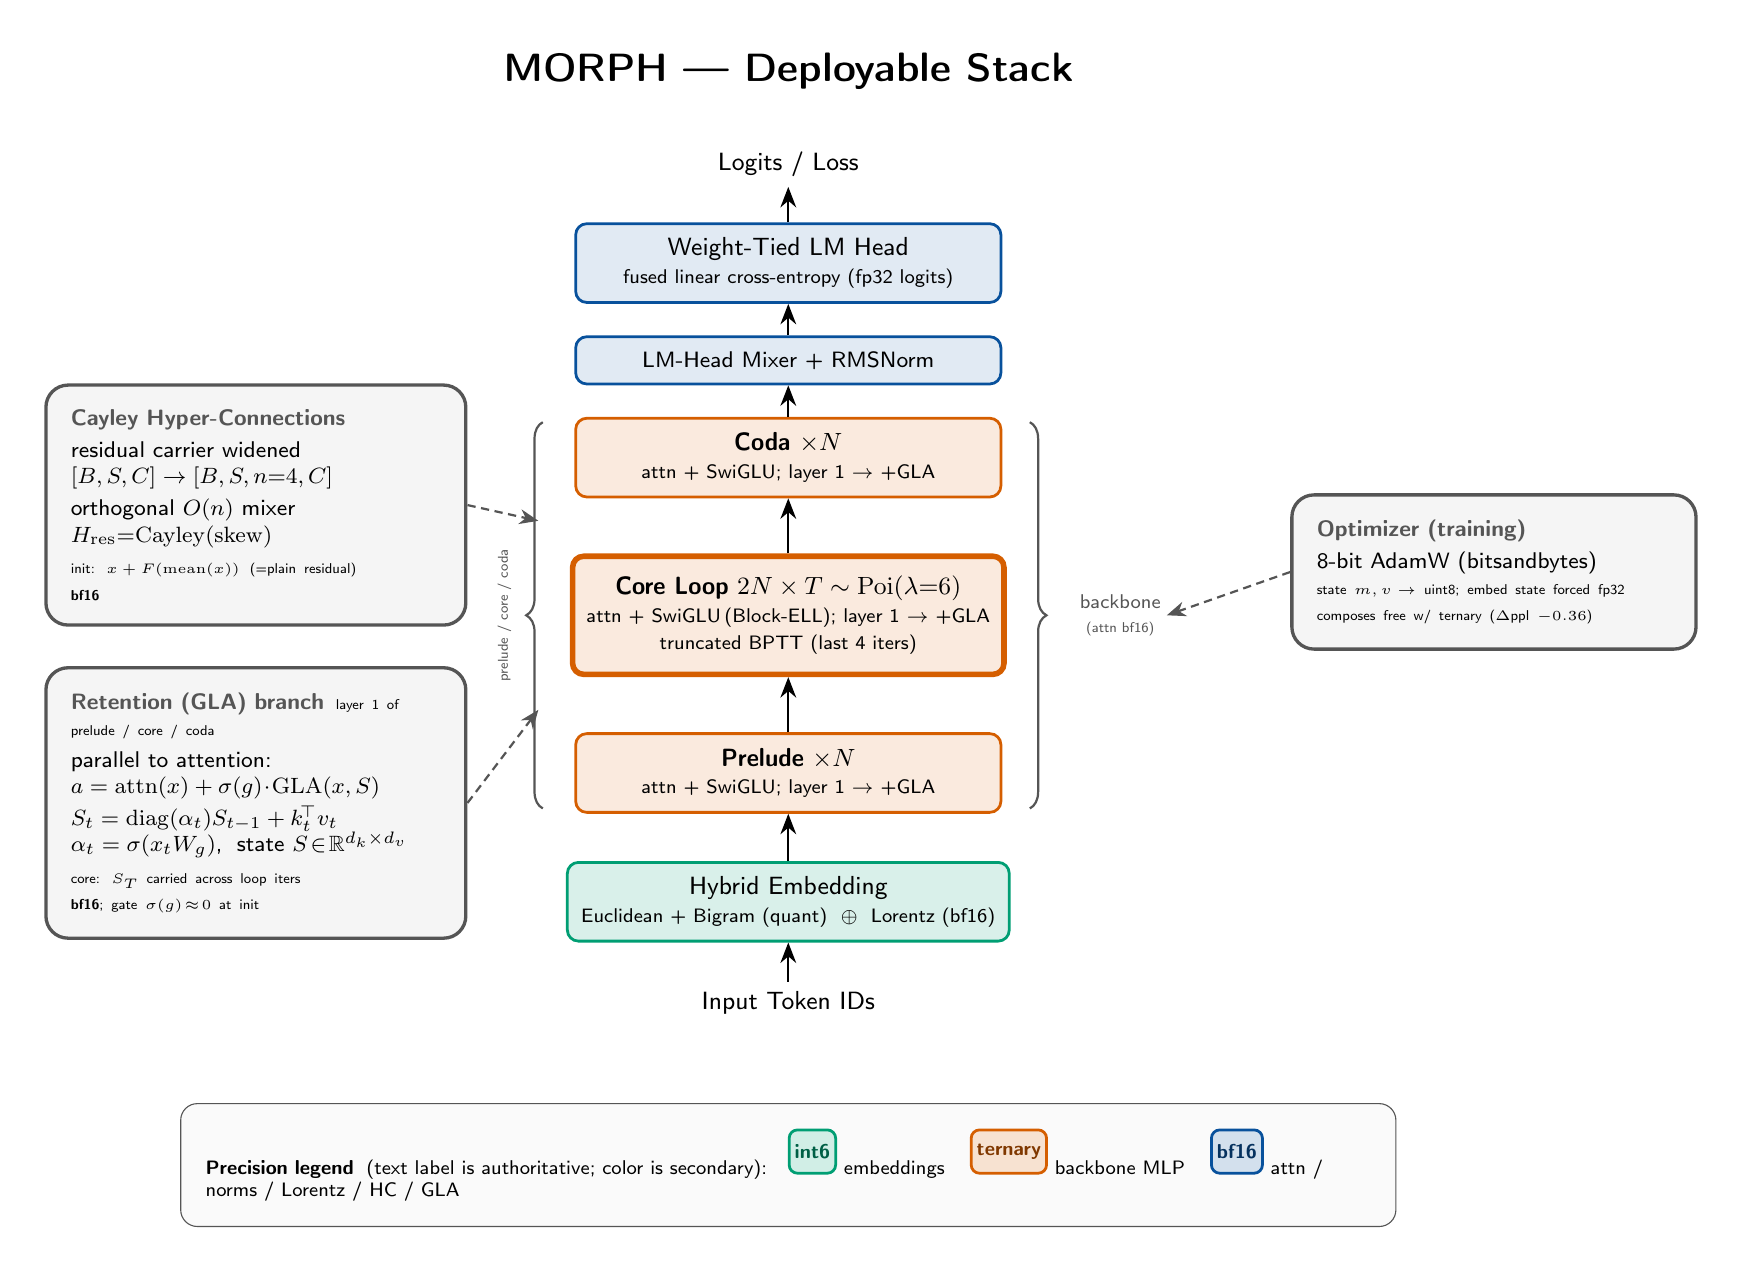
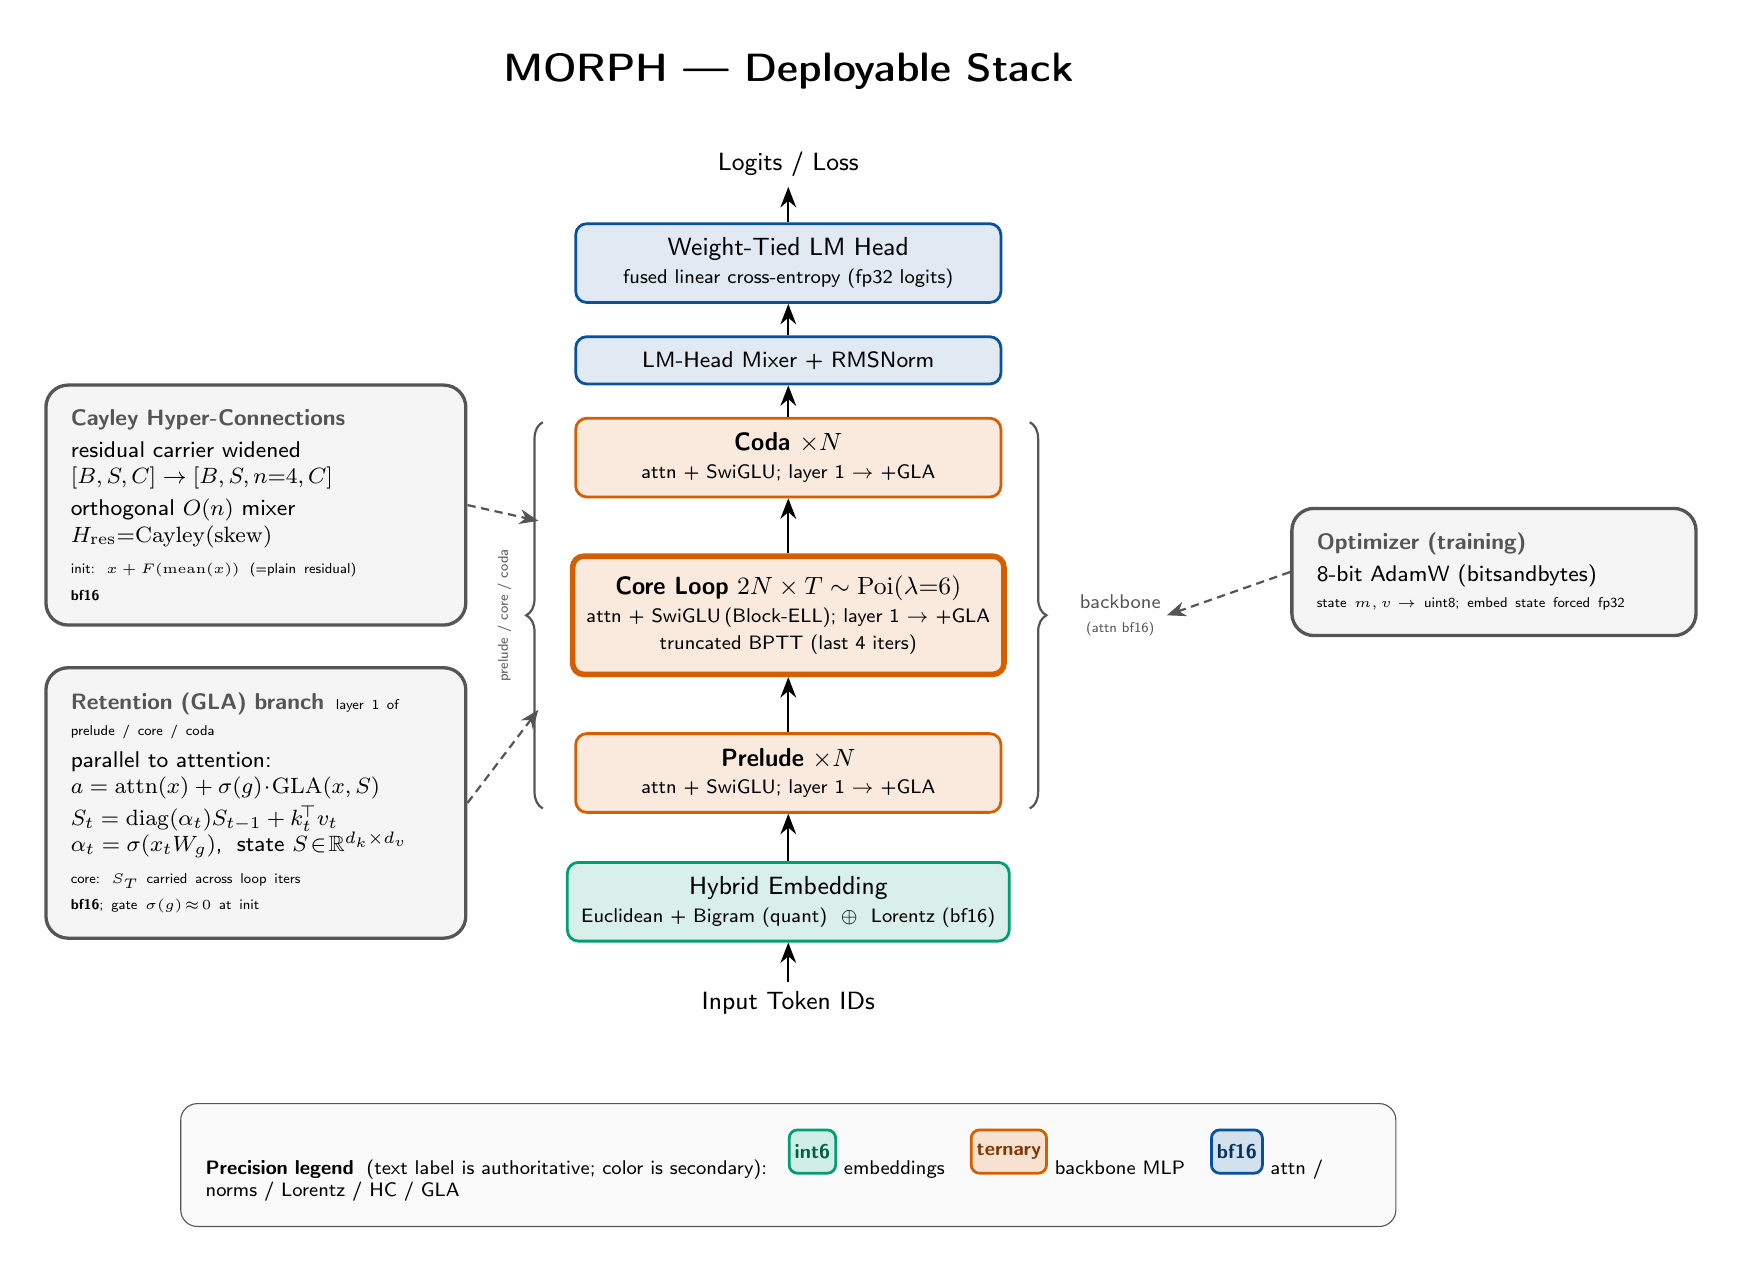
docs

Changed region(s): [[0.744, 0.3679, 0.992, 0.5212]]

diff --git a/docs/figures/morph_attention.tex b/docs/figures/morph_attention.tex
@@ -1,21 +1,20 @@
 % MORPH — Attention Detail (triple-axis compression: CCA x {CSA|HCA} x window).
-% The zoom-in of the "CCA + CSA/HCA Attention" box in morph_block.tex. Central
-% bottom-up dataflow + two detail insets (CCA prologue, CSA selection path).
+% The zoom-in of the "CCA + CSA/HCA Attention" box in morph_block.tex.
+% LAYOUT: horizontal CCA prologue "subway" strip along the bottom (the shared
+% channel-compress front-end), feeding a vertical branch/combine fork above it.
+% Detail lives in EXACTLY one place (no summary-box + inset duplication).
 %
 % Verified against code (2026-06-07, morph/model/attention.py + transformer.py:322-354):
 %   - _CCABase shared prologue: W_down_q 768->384, W_down_k 768->128 (C=2, d_head=32);
-%     depthwise+head-grouped causal conv (k=4); QK-mean couple; QK-RMSNorm; learnable
-%     temp exp() on k (per kv head); CoPE (clipped-RoPE); GQA expand 4->12; value-shift
-%     v = [W_v_curr(x_t) || W_v_prev(x_{t-1})].
-%   - Window branch (always): sliding causal, w=128, XSA (self-token excluded), fused.
+%     depthwise+head-grouped causal conv (k=4); QK-mean couple; QK-RMSNorm; key temp
+%     exp() (per kv head); CoPE (clipped-RoPE); GQA expand 4->12; value-shift.
+%   - Window branch (always): sliding causal, w=128, XSA (self excluded), fused.
 %   - Global-compressed slot resolved at __init__ by GLOBAL layer_idx parity:
-%       even -> CSA: two-stream gated pool m=4 -> Lightning Indexer (-inf before relu)
-%               -> top_k=128 select -> on-the-fly gather + invalid-mask -> flash attn.
-%       odd  -> HCA: single-stream pool m=128 -> DENSE attn over all blocks + early-query
-%               guard. (Variant is baked per layer -> a looped core layer keeps it every iter.)
-%   - Combine (always): sigmoid gate MLP 768->192->24 (2 wts/head) blends compressed+window;
-%     + residual-alpha (per head, from q_lat); + learnable per-head sinks; W_up 384->768.
-%   - CLA (cla_kv path) is real but DEFAULT-OFF -> drawn as a dashed optional overlay.
+%       even -> CSA: two-stream pool m=4 -> Lightning Indexer (-inf before relu)
+%               -> top_k=128 select -> on-the-fly gather + invalid-mask -> flash.
+%       odd  -> HCA: single-stream pool m=128 -> DENSE attn over all blocks + early-q guard.
+%   - Combine: per-head sigmoid gate (2 wts/head) blends; + residual-alpha (q_lat);
+%     + learnable per-head sinks; W_up 384->768.  CLA = dashed optional (default off).
 % Compile: pdflatex morph_attention.tex
 
 \documentclass[border=14pt]{standalone}
@@ -39,18 +38,22 @@
 \definecolor{ccaC}{HTML}{2255AA}
 
 \tikzset{
-  B/.style={draw=bdr, thick, rounded corners=4pt,
-    minimum width=4.6cm, minimum height=1.0cm,
-    font=\small\sffamily, align=center, inner sep=5pt},
-  Bs/.style={B, minimum height=0.7cm, font=\footnotesize\sffamily, minimum width=3.4cm},
-  % inset pipeline step
-  pstep/.style={draw=bdr, rounded corners=3pt, fill=fGray!55,
-    minimum width=4.3cm, minimum height=0.62cm,
-    font=\scriptsize\sffamily, align=center, inner sep=3pt},
+  % strip step (CCA prologue subway)
+  sb/.style={draw=cbBlue!70, rounded corners=3pt, fill=fBlue!60,
+    minimum width=2.45cm, minimum height=1.05cm,
+    font=\scriptsize\sffamily, align=center, inner sep=2pt},
+  % branch / combine boxes
+  Bx/.style={draw=bdr, thick, rounded corners=4pt,
+    minimum width=3.4cm, minimum height=1.0cm,
+    font=\small\sffamily, align=center, inner sep=4pt},
+  % small box inside the global slot
+  gs/.style={draw=bdr, rounded corners=3pt, minimum width=2.5cm,
+    minimum height=0.66cm, font=\scriptsize\sffamily, align=center, inner sep=2pt},
   io/.style={font=\small\sffamily},
   A/.style={-{Stealth[length=2.8mm,width=2.2mm]}, thick},
-  Ah/.style={-{Stealth[length=2.4mm,width=2mm]}, semithick, cbGray},
+  As/.style={-{Stealth[length=2.4mm,width=1.9mm]}, semithick},
   Ad/.style={-{Stealth[length=2.4mm,width=1.9mm]}, thick, densely dashed},
+  rail/.style={ccaC, line width=1.4pt},
   sub/.style={font=\scriptsize\sffamily},
   tny/.style={font=\tiny\sffamily},
   dim/.style={font=\tiny\sffamily, text=cbGray},
@@ -60,158 +63,127 @@
 \begin{tikzpicture}
 
 % =====================================================================
-% MAIN COLUMN (bottom -> top), centred on x = 0
+% BAND 1 (bottom) — CCA prologue subway strip
 % =====================================================================
-
-% ── input ──
-\node[io] (inp) at (0,0) {$x\;[B,S,768]$};
-
-% ── CCA prologue (shared, always on) ──
-\node[B, fill=fBlue, draw=cbBlue, line width=1pt, minimum width=6.4cm,
-      minimum height=1.45cm, above=0.55cm of inp] (cca) {
-  \textbf{CCA channel compression}\;{\footnotesize(C{=}2)}\\[1pt]
-  {\scriptsize $W_{\downarrow}$: 768$\to$384(q)/128(k) $\cdot$ causal conv(dw+grp) $\cdot$ QK-mean}\\[-1pt]
-  {\scriptsize QK-RMSNorm $\cdot$ temp$\,e^{\tau}\!$ $\cdot$ CoPE $\cdot$ GQA 4$\to$12 $\cdot$ value-shift}};
-\draw[A] (inp) -- (cca);
-\node[dim, anchor=west] at ($(cca.east)+(0.08,-0.45)$) {$d_\mathrm{head}{=}32$};
-
-% q,k,v distribution bus
-\coordinate (bus) at (0,2.95);
-\draw[A] (cca.north) -- (bus) node[pos=0.55, right=2pt, sub, text=ccaC]{$q,k,v\;[B,12,S,32]$};
-
-% ── two branches ──
-% LEFT: window branch
-\node[B, fill=fOrange, draw=cbOrange!85!black, line width=0.9pt,
-      minimum width=3.9cm, minimum height=2.05cm] (win) at (-2.75,4.55) {
-  \textbf{Window branch}\\[1pt]
-  {\scriptsize sliding causal, $w{=}128$}\\[-1pt]
-  {\scriptsize \textbf{XSA} — self-token excluded}\\[-1pt]
-  {\scriptsize MAC suffix ($n_\mathrm{skip}$ tokens):}\\[-2pt]
-  {\scriptsize skip CoPE, globally visible}\\[-1pt]
-  {\tiny fused window kernel}};
-
-% RIGHT: global-compressed slot (alternation container)
-\node[draw=cbGray, densely dashed, thick, rounded corners=6pt, fill=cbGray!4,
-      minimum width=4.9cm, minimum height=2.55cm, anchor=south] (slot) at (2.6,3.55) {};
-\node[tny, text=cbGray, anchor=north] at (slot.north) {global-compressed slot $\cdot$ \textbf{one active / layer}};
-\node[B, fill=fPurple, draw=cbPurple, line width=0.9pt, minimum width=4.4cm,
-      minimum height=0.95cm] (csa) at (2.6,5.18) {
-  \textbf{CSA}\,{\scriptsize(even idx)} — sparse select\\[-1pt]
-  {\tiny pool $m{=}4$ $\cdot$ indexer top-$k{=}128$ $\cdot$ gather}};
-\node[B, fill=fTeal, draw=cbTeal, line width=0.9pt, minimum width=4.4cm,
-      minimum height=0.95cm] (hca) at (2.6,4.06) {
-  \textbf{HCA}\,{\scriptsize(odd idx)} — dense compress\\[-1pt]
-  {\tiny pool $m{=}128$ $\cdot$ attend ALL blocks $\cdot$ early-q guard}};
-
-% bus -> branches
-\draw[A] (bus) -| (win.south);
-\draw[A] (bus) -| (slot.south);
-
-% ── combine (gate + sink + alpha + W_up) ──
-\node[B, fill=cbBlue!8, draw=cbBlue, line width=1pt, minimum width=7.2cm,
-      minimum height=1.45cm] (comb) at (0,7.35) {
-  \textbf{Gate blend $+$ residual $+$ sinks}\\[1pt]
-  {\scriptsize sigmoid gate MLP 768$\to$192$\to$24 (2/head): $g_c\,o_\mathrm{comp}+g_w\,o_\mathrm{win}$}\\[-1pt]
-  {\scriptsize $+\;\alpha_h\!\cdot\!$residual$(q_\mathrm{lat})$ $\;+\;$ learnable per-head sink logits}};
-\draw[A] (win.north)  -- ([xshift=-1.6cm]comb.south) node[pos=0.55, left=1pt, sub, text=cbOrange!80!black]{$o_\mathrm{win}$};
-% only one of CSA/HCA is active per layer -> a single shared o_comp exit off the slot
-\draw[A] (slot.north) -- ([xshift=1.7cm]comb.south) node[pos=0.5, right=1pt, sub, text=cbPurple]{$o_\mathrm{comp}$};
-
-% ── W_up + output ──
-\node[Bs, fill=fGray, minimum width=4.2cm, above=0.45cm of comb] (wup) {$W_{\uparrow}$: 384 $\to$ 768};
-\draw[A] (comb) -- (wup);
-\node[io, above=0.42cm of wup] (out) {attn out $[B,S,768]$ $\to$ block residual};
-\draw[A] (wup) -- (out);
-
-% ── CLA optional overlay (default off) ──
-\node[draw=cbGray, densely dashed, rounded corners=5pt, fill=cbGray!5,
-      text width=3.5cm, font=\tiny\sffamily, align=left, inner sep=5pt, text=bdr]
-      at (-2.6,6.55) (cla) {%
-  \textbf{optional · CLA} (default off)\\
-  cache $k,v,C_\mathrm{comp}$ at 1st grad iter; later loop iters recompute \emph{$q$ only}};
-\draw[Ad, cbGray] (cla.south) -- ([yshift=2pt]win.north west);
-
-% =====================================================================
-% INSET 1 (LEFT) — CCA prologue expanded
-% =====================================================================
-\def\ix{-8.4}
-\node[pstep, fill=fBlue!70] (i1a) at (\ix,1.1) {$W_{\downarrow}q$ 768$\to$384 \;$\cdot$\; $W_{\downarrow}k$ 768$\to$128};
-\node[pstep, above=0.34cm of i1a] (i1b) {causal conv: depthwise $\to$ head-grouped ($k{=}4$)};
-\node[pstep, above=0.34cm of i1b] (i1c) {QK-mean couple: $q{\mathrel{+}}{=}\tfrac12(q_\mathrm{lat}{+}k_\mathrm{lat})$};
-\node[pstep, above=0.34cm of i1c] (i1d) {QK-RMSNorm \;$\cdot$\; key temp $\times e^{\tau}$ (per kv-head)};
-\node[pstep, above=0.34cm of i1d] (i1e) {CoPE — clipped-RoPE (cosine taper $>$ ctx\_len)};
-\node[pstep, above=0.34cm of i1e] (i1f) {GQA expand $k,v$: 4 kv-head $\to$ 12 q-head};
-\node[pstep, fill=fBlue!70, above=0.34cm of i1f] (i1g) {value-shift: $v{=}[W_v x_t \,\Vert\, W_v x_{t-1}]$};
-\foreach \a/\b in {i1a/i1b,i1b/i1c,i1c/i1d,i1d/i1e,i1e/i1f,i1f/i1g}{\draw[Ah] (\a)--(\b);}
-\node[io, below=0.3cm of i1a] (i1in) {$x$};
-\draw[Ah] (i1in)--(i1a);
-\node[sub, text=ccaC, above=0.28cm of i1g] (i1out) {$\to q,k,v\;[B,12,S,32]$};
-\draw[Ah] (i1g)--(i1out);
+\def\sy{0.3}
+\node[io] (xin) at (-10.5,\sy) {$x$};
+\node[sb] (s1) at (-8.0,\sy) {$W_{\downarrow}\,q,k$\\[-1pt]768$\to$384\,/\,128};
+\node[sb] (s2) at (-5.35,\sy) {causal conv\\[-1pt]dw$\to$grp ($k{=}4$)};
+\node[sb] (s3) at (-2.70,\sy) {QK-mean\\[-1pt]$q{+}{=}\tfrac12(q{+}k)$};
+\node[sb] (s4) at (-0.05,\sy) {QK-RMSNorm\\[-1pt]key temp $e^{\tau}$};
+\node[sb] (s5) at (2.60,\sy) {CoPE\\[-1pt]clipped-RoPE};
+\node[sb] (s6) at (5.25,\sy) {GQA expand\\[-1pt]4$\to$12 heads};
+\node[sb] (s7) at (7.90,\sy) {value-shift\\[-1pt]$[x_t\Vert x_{t-1}]$};
+\node[io] (qkv) at (10.4,\sy) {$q,k,v$};
+\foreach \a/\b in {xin/s1,s1/s2,s2/s3,s3/s4,s4/s5,s5/s6,s6/s7,s7/qkv}{\draw[As] (\a)--(\b);}
 \begin{scope}[on background layer]
-  \node[draw=cbBlue!55, thick, rounded corners=7pt, fill=cbBlue!4,
-        fit=(i1in)(i1a)(i1g)(i1out), inner sep=9pt] (I1) {};
+  \node[draw=cbBlue!45, thick, rounded corners=7pt, fill=cbBlue!4,
+        fit=(s1)(s7), inner xsep=7pt, inner ysep=8pt] (STRIP) {};
 \end{scope}
 \node[font=\small\sffamily\bfseries, text=cbBlue, anchor=south west]
-  at ($(I1.north west)+(0.1,0.02)$) {CCA prologue \;{\footnotesize(shared $\_$CCABase)}};
-% link main CCA -> inset 1
-\draw[Ad, cbBlue] (cca.west) to[out=180,in=0] (I1.east);
+  at ($(STRIP.north west)+(0.05,0.03)$)
+  {CCA prologue \;{\footnotesize(shared \_CCABase $\cdot$ channel-compress $C{=}2$ $\cdot$ $d_\mathrm{head}{=}32$)}};
 
 % =====================================================================
-% INSET 2 (RIGHT) — CSA selection path expanded
+% q,k,v broadcast rail (compute once, feed both branches)
 % =====================================================================
-\def\jx{8.7}
-\node[pstep, fill=fPurple!75, minimum height=0.92cm] (i2a) at (\jx,1.25) {
-  two-stream gated pool $m{=}4$ $\to$ $C_\mathrm{comp}$ (RMSNorm)\\[-1pt]
-  {\tiny streams A/B overlap; joint softmax over $2m$; block $i$ fuses $i,i{-}1$}};
-\node[pstep, above=0.34cm of i2a] (i2b) {Lightning Indexer: $q_I\!\cdot\!K_I$, \;$-\infty$ \emph{before} relu};
-\node[pstep, above=0.34cm of i2b] (i2c) {scores $[B,S,n_\mathrm{blk}]$ — re-mask future $\to-\infty$};
-\node[pstep, fill=fPurple!75, above=0.34cm of i2c] (i2d) {top-$k{=}128$ block select \;$+$\; invalid-mask};
-\node[pstep, above=0.34cm of i2d] (i2e) {on-the-fly gather \;$\to$\; flash attn ($+$ sink)};
-\foreach \a/\b in {i2a/i2b,i2b/i2c,i2c/i2d,i2d/i2e}{\draw[Ah] (\a)--(\b);}
-\node[io, below=0.3cm of i2a] (i2in) {$x$};
-\draw[Ah] (i2in)--(i2a);
-\node[sub, text=cbPurple, above=0.28cm of i2e] (i2out) {$\to o_\mathrm{comp}$};
-\draw[Ah] (i2e)--(i2out);
-\begin{scope}[on background layer]
-  \node[draw=cbPurple!55, thick, rounded corners=7pt, fill=cbPurple!4,
-        fit=(i2in)(i2a)(i2e)(i2out), inner sep=9pt] (I2) {};
-\end{scope}
-\node[font=\small\sffamily\bfseries, text=cbPurple, anchor=south west]
-  at ($(I2.north west)+(0.1,0.02)$) {CSA selection path};
-% HCA contrast note — its own callout below the inset (HCA reuses the pooler, no selection)
-\node[draw=cbTeal!55, thick, rounded corners=5pt, fill=fTeal!55,
-      font=\tiny\sffamily, align=left, text width=4.4cm, inner sep=5pt,
-      below=0.3cm of I2.south, anchor=north] (hnote) {%
-  \textbf{HCA} reuses the same pooler ($m{=}128$) but \emph{skips} the indexer $+$ top-$k$:
-  dense softmax over \emph{all} compressed blocks ($+$ sink, early-query guard).};
-% link main CSA -> inset 2
-\draw[Ad, cbPurple] (csa.east) to[out=0,in=180] (I2.west);
+\def\busy{2.45}
+\draw[rail] (qkv.north) |- (-3.7,\busy);
+\node[sub, text=ccaC, anchor=south] at (5.6,\busy) {$q,k,v\;[B,12,S,32]$ \;(broadcast to both branches)};
 
 % =====================================================================
-% BOTTOM — four-axis legend / facts
+% BAND 2 (middle) — two attention branches
+% =====================================================================
+% LEFT: window branch
+\node[Bx, fill=fOrange, draw=cbOrange!85!black, line width=1pt,
+      minimum width=3.5cm, minimum height=2.0cm, anchor=south] (win) at (-3.2,3.15) {
+  \textbf{Window branch}\\[2pt]
+  {\scriptsize sliding causal, $w{=}128$}\\[1pt]
+  {\scriptsize \textbf{XSA}: self-token excluded}\\[1pt]
+  {\scriptsize MAC suffix ($n_\mathrm{skip}$): skip}\\[-2pt]
+  {\scriptsize CoPE, globally visible}};
+\node[tny, text=cbOrange!75!black, anchor=north] at (win.south) {fused window kernel};
+
+% RIGHT: global-compressed slot (the alternation container)
+\node[draw=cbGray, densely dashed, very thick, rounded corners=7pt, fill=cbGray!4,
+      minimum width=6.7cm, minimum height=4.05cm, anchor=south] (slot) at (3.7,3.0) {};
+\node[tny, text=cbGray, anchor=north east] at ($(slot.north east)+(-0.14,-0.1)$)
+  {global slot \;$\cdot$\; \textbf{1 active / layer}};
+% shared pooler at the bottom
+\node[gs, fill=fGray!55, minimum width=6.0cm] (pool) at (3.7,3.5) {
+  pool $\to C_\mathrm{comp}$ (RMSNorm)\;$\cdot$\; CSA $m{=}4$ (2-stream) / HCA $m{=}128$};
+% CSA column (left, EVEN layers) — purple
+\node[gs, fill=fPurple, draw=cbPurple, minimum width=2.9cm] (csa1) at (2.05,4.40) {indexer: $-\infty$ \emph{before} relu};
+\node[gs, fill=fPurple, draw=cbPurple, minimum width=2.9cm] (csa2) at (2.05,5.10) {top-$k{=}128$ $+$ invalid-mask};
+\node[gs, fill=fPurple, draw=cbPurple, minimum width=2.9cm] (csa3) at (2.05,5.80) {gather $\to$ flash ($+$sink)};
+\node[sub, text=cbPurple!75!black, anchor=south] at (csa3.north) {\textbf{CSA}\,$\cdot$\,even};
+% HCA column (right, ODD layers) — green
+\node[gs, fill=fTeal, draw=cbTeal, minimum width=2.9cm, minimum height=1.05cm] (hca) at (5.4,5.10)
+  {dense softmax over\\ \emph{all} blocks $+$ early-q guard};
+\node[sub, text=cbTeal!55!black, anchor=south] at (hca.north) {\textbf{HCA}\,$\cdot$\,odd};
+% pool feeds both columns; csa flows up; both merge to ONE o_comp exit (only one runs/layer)
+\draw[As, cbPurple] (pool.north) to[out=128,in=-90] (csa1.south);
+\draw[As, cbTeal]   (pool.north) to[out=52,in=-90]  (hca.south);
+\draw[As, cbPurple] (csa1) -- (csa2);
+\draw[As, cbPurple] (csa2) -- (csa3);
+\node[circle, draw=bdr, fill=bdr, inner sep=1.1pt] (mrg) at (3.7,6.55) {};
+\draw[As, cbPurple] (csa3.east) to[out=0,in=200] (mrg);
+\draw[As, cbTeal]   (hca.north) to[out=90,in=-20] (mrg);
+
+% rail risers into the two branches
+\draw[A, ccaC] (-3.2,\busy) -- (win.south);
+\draw[A, ccaC] (3.7,\busy) -- (slot.south);
+
+% =====================================================================
+% BAND 3 (top) — combine + up-project + output
+% =====================================================================
+\node[Bx, fill=cbBlue!8, draw=cbBlue, line width=1pt, minimum width=8.4cm,
+      minimum height=1.5cm, anchor=south] (comb) at (0.4,7.35) {
+  \textbf{Gate blend $+$ residual-$\alpha$ $+$ sinks}\\[2pt]
+  {\scriptsize per-head sigmoid gate MLP 768$\to$192$\to$24 (2 wts/head): $g_c\,o_\mathrm{comp}+g_w\,o_\mathrm{win}$}\\[1pt]
+  {\scriptsize $+\;\alpha_h\!\cdot\!$residual$(q_\mathrm{lat})$ \quad$+$\quad learnable per-head attention-sink logits}};
+\draw[A] (win.north) -- ([xshift=-2.6cm]comb.south)
+  node[pos=0.55, left=1pt, sub, text=cbOrange!80!black]{$o_\mathrm{win}$};
+\draw[A] (mrg) -- ([xshift=2.4cm]comb.south)
+  node[pos=0.55, right=1pt, sub, text=cbPurple]{$o_\mathrm{comp}$};
+\node[Bx, fill=fGray, minimum width=4.4cm, minimum height=0.7cm, above=0.5cm of comb] (wup)
+  {$W_{\uparrow}$: 384 $\to$ 768};
+\draw[A] (comb) -- (wup);
+\node[io, above=0.42cm of wup] (out) {attn out $[B,S,768]$ \;$\to$\; block residual};
+\draw[A] (wup) -- (out);
+
+% ── CLA optional overlay (default off) — upper-left dead space ──
+\node[draw=cbGray, densely dashed, rounded corners=5pt, fill=cbGray!5,
+      text width=4.0cm, font=\tiny\sffamily, align=left, inner sep=6pt, text=bdr]
+      at (-7.6,5.6) (cla) {%
+  \textbf{optional $\cdot$ CLA} (default off)\\[1pt]
+  cache $k,v,C_\mathrm{comp}$ at the 1st grad iteration; later loop iters recompute
+  \emph{$q$ only} and reuse the bundle.};
+\draw[Ad, cbGray] (cla.south) to[out=-90,in=180] (-3.7,\busy);
+
+% =====================================================================
+% BOTTOM — facts / notation panel
 % =====================================================================
 \node[draw=bdr, rounded corners=6pt, fill=fGray!25, inner sep=10pt,
       align=left, font=\scriptsize\sffamily, text width=21.5cm, anchor=north]
-      (facts) at (0,-1.35) {%
-  \textbf{Four compression axes} (all faithful to \texttt{morph/model/attention.py}):\quad
+      (facts) at (0,-1.25) {%
+  \textbf{Four compression axes} (faithful to \texttt{morph/model/attention.py}):\quad
   \tikz\node[draw=cbBlue,fill=fBlue,rounded corners=2pt,inner sep=1.5pt,font=\tiny\sffamily]{channel};\,CCA $E{\to}E/2$ \;\;
   \tikz\node[draw=cbPurple,fill=fPurple,rounded corners=2pt,inner sep=1.5pt,font=\tiny\sffamily]{select};\,CSA top-$128$ of $S/4$ blocks \;\;
   \tikz\node[draw=cbTeal,fill=fTeal,rounded corners=2pt,inner sep=1.5pt,font=\tiny\sffamily]{dense};\,HCA all $S/128$ blocks \;\;
   \tikz\node[draw=cbOrange,fill=fOrange,rounded corners=2pt,inner sep=1.5pt,font=\tiny\sffamily]{local};\,window $w{=}128$.\\[3pt]
   \textbf{CSA/HCA alternate} on the \emph{global} layer index (even$\to$CSA, odd$\to$HCA), baked at \texttt{\_\_init\_\_} —
-  so a looped core layer keeps its variant on every iteration (\emph{not} iteration-conditioned).
+  a looped core layer keeps its variant on every iteration (\emph{not} iteration-conditioned).
   \;Causal-leak fix: indexer masks future blocks to $-\infty$ \emph{before} relu, \emph{and} re-checks validity after gather.\\[3pt]
-  \textbf{Combine:} per-head sigmoid gate gives 2 weights (compressed, window); residual-$\alpha$ adds the down-projected $q_\mathrm{lat}$ back;
-  \textbf{attention sinks} are a learnable per-head logit appended to the compressed softmax (a no-op "null" key).
-  \;Fused Triton kernels: CCA prologue, CCA conv, window, CSA, HCA (each fwd/grad-exact vs eager).\\[3pt]
-  \textbf{Notation:} $B$ batch, $S$ seq, $H{=}12$ q-heads, $H_{kv}{=}4$ kv-heads (GQA $\times3$), channel compression $C{=}2$,
-  $d_\mathrm{head}{=}768/(C\,H){=}32$, $n_\mathrm{blk}{=}S/m$. \;Color is secondary — every box is text-labeled.};
+  \textbf{Combine:} per-head sigmoid gate $\to$ 2 weights (compressed, window); residual-$\alpha$ adds the down-projected $q_\mathrm{lat}$ back;
+  attention sinks $=$ a learnable per-head logit on the compressed softmax. \;Fused Triton: CCA prologue, conv, window, CSA, HCA (each fwd/grad-exact).
+  \;\textbf{Notation:} $H{=}12$ q-heads, $H_{kv}{=}4$ kv (GQA $\times3$), $C{=}2$, $d_\mathrm{head}{=}32$, $n_\mathrm{blk}{=}S/m$. \;Color secondary — every box is text-labeled.};
 
 % ── Title ────────────────────────────────────────────────────────────
-\node[font=\Large\sffamily\bfseries, anchor=south] (ttl) at (0,10.55)
+\node[font=\Large\sffamily\bfseries, anchor=south] (ttl) at (0,11.45)
   {MORPH Attention --- Triple-Axis Compression};
 \node[sub, text=bdr, anchor=north, below=0.1cm of ttl]
-  {CCA channel-compress feeds a local window $\Vert$ one global-compressed branch (CSA\,/\,HCA), blended by a per-head gate};
+  {a shared CCA channel-compress front-end feeds a local window $\Vert$ one global-compressed branch (CSA\,/\,HCA), blended by a per-head gate};
 
 \end{tikzpicture}
 \end{document}

diff --git a/docs/figures/morph_deploy_stack.tex b/docs/figures/morph_deploy_stack.tex
@@ -151,7 +151,7 @@
 \node[panel=bdr, anchor=west, text width=4.5cm] at ($(core.east)+(3.6,0.55)$) (opt) {
   \textbf{\textcolor{bdr}{Optimizer (training)}}\\[2pt]
   8-bit AdamW (bitsandbytes)\\
-  {\tiny state $m,v \to$ uint8; embed state forced fp32}\\
+  {\tiny state $m,v \to$ uint8; embed state forced fp32}};
 
 % the training-time optimizer overlay connects to the backbone brace (a real target, not empty space)
 \draw[Ad, bdr] (opt.west) -- (bb.east);